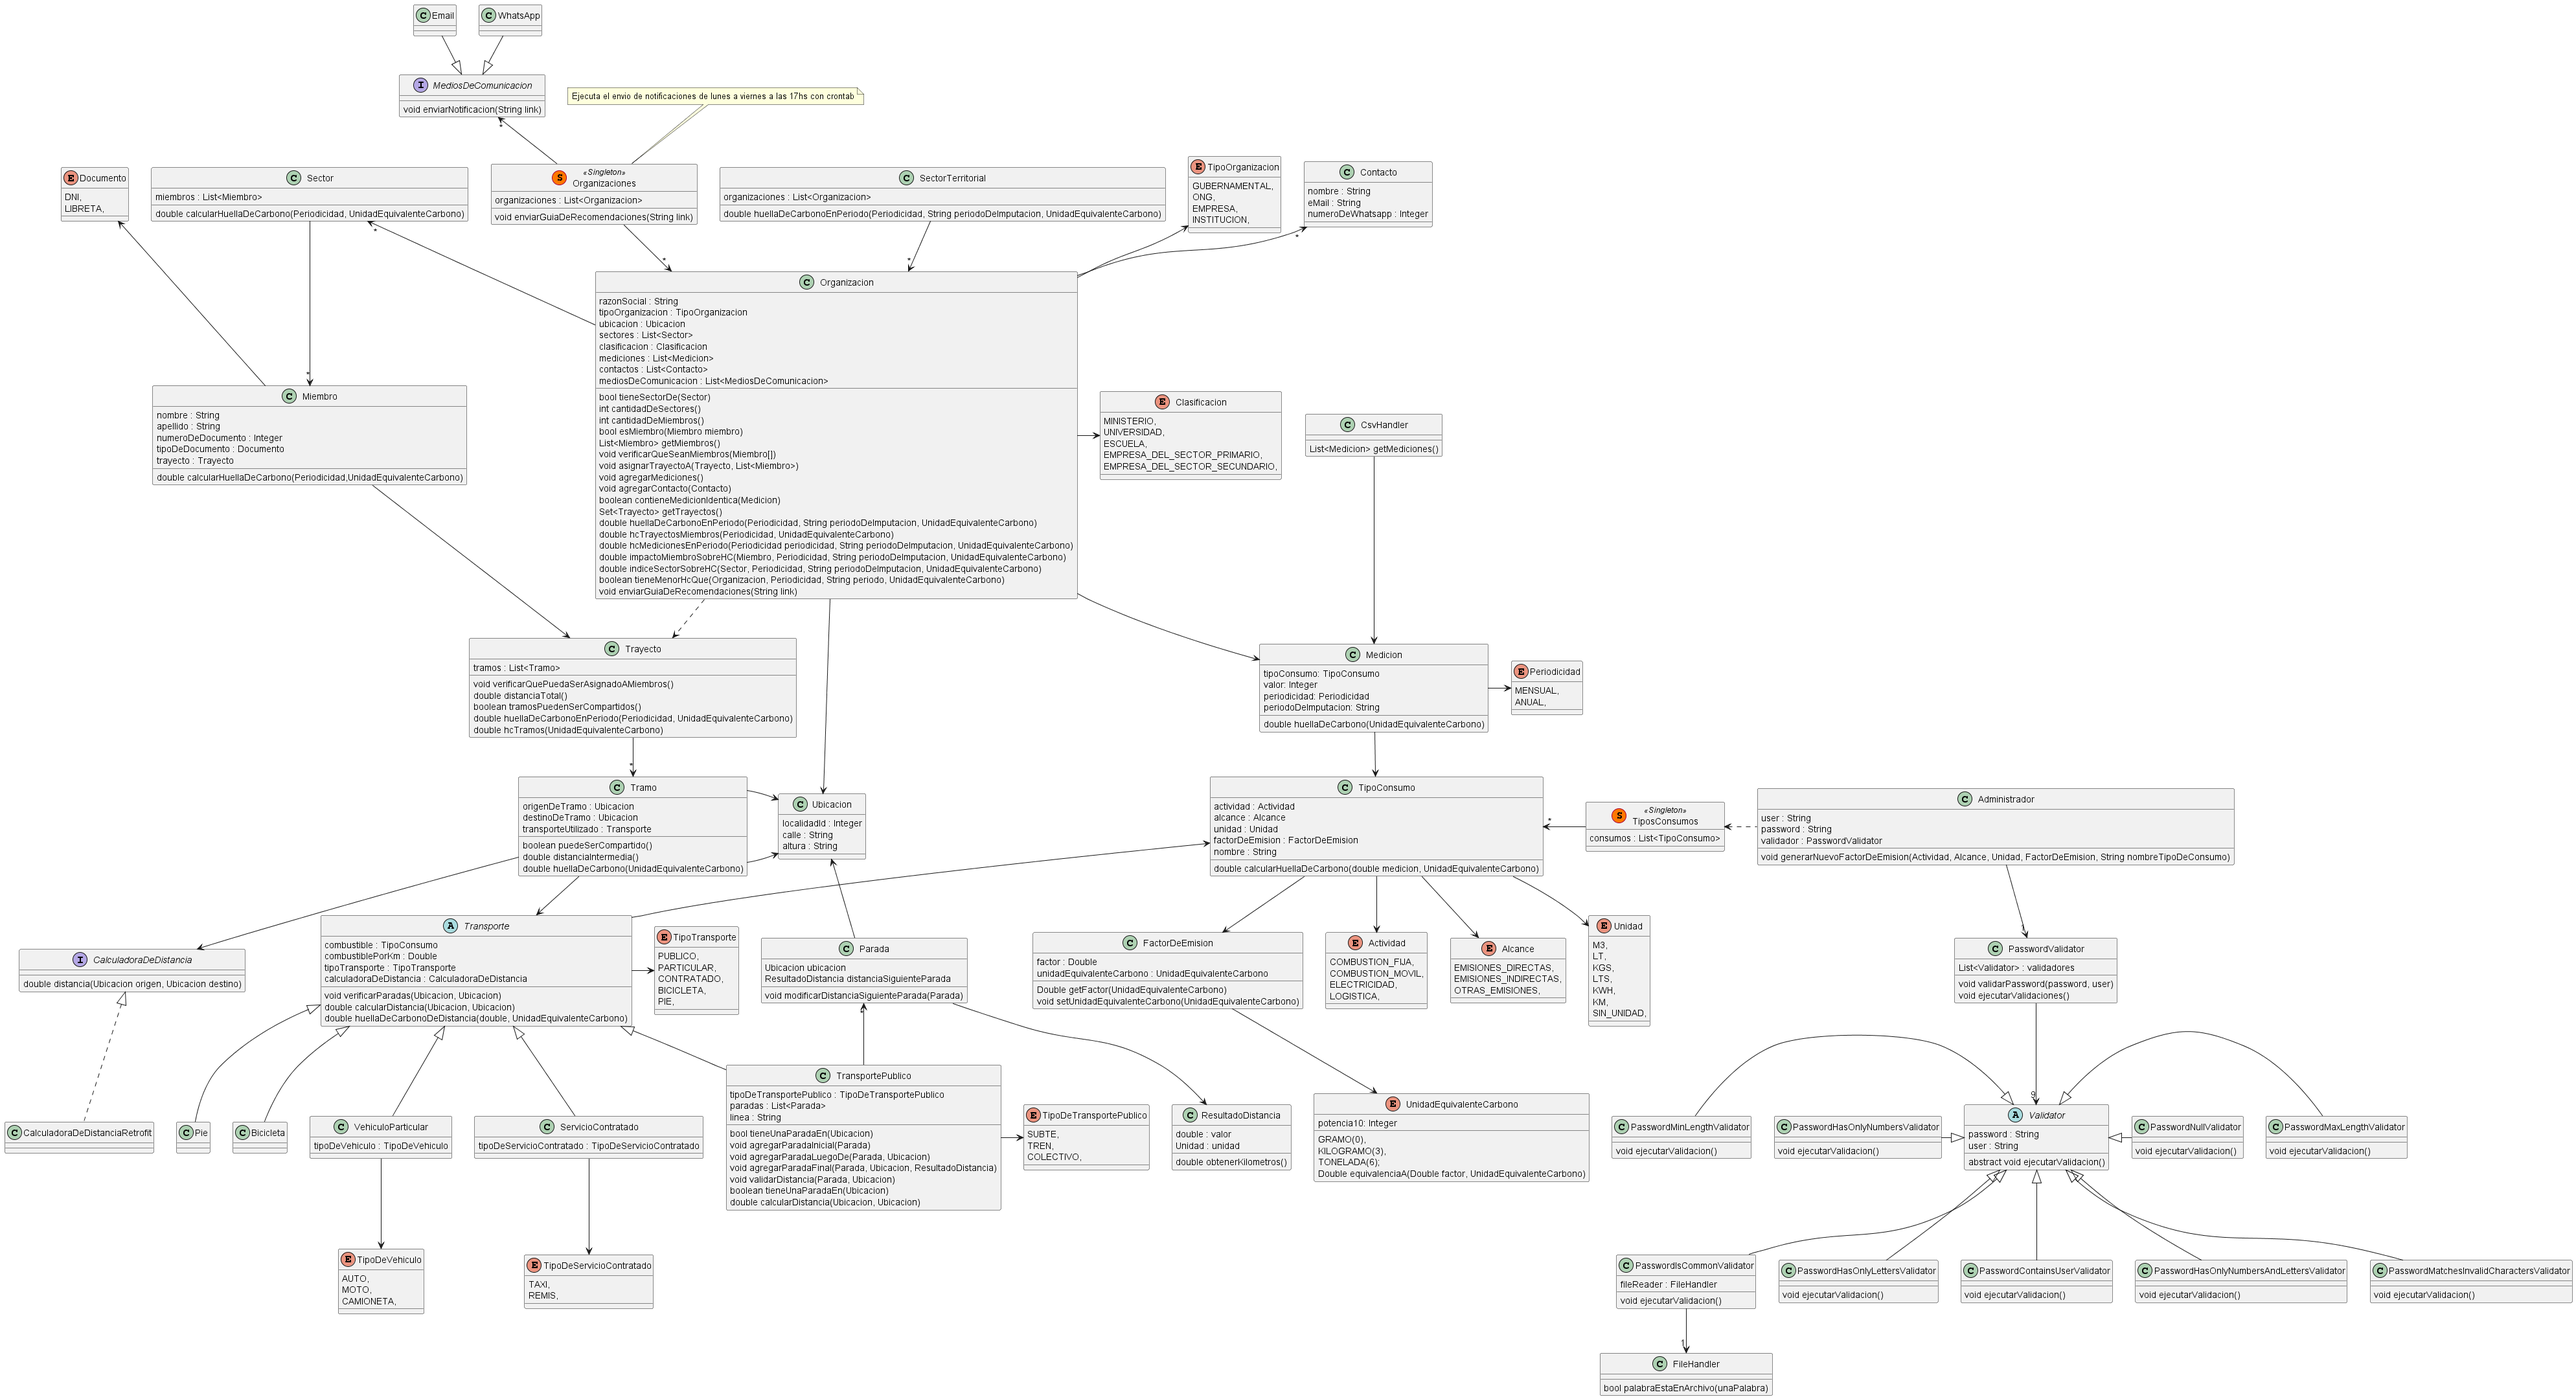
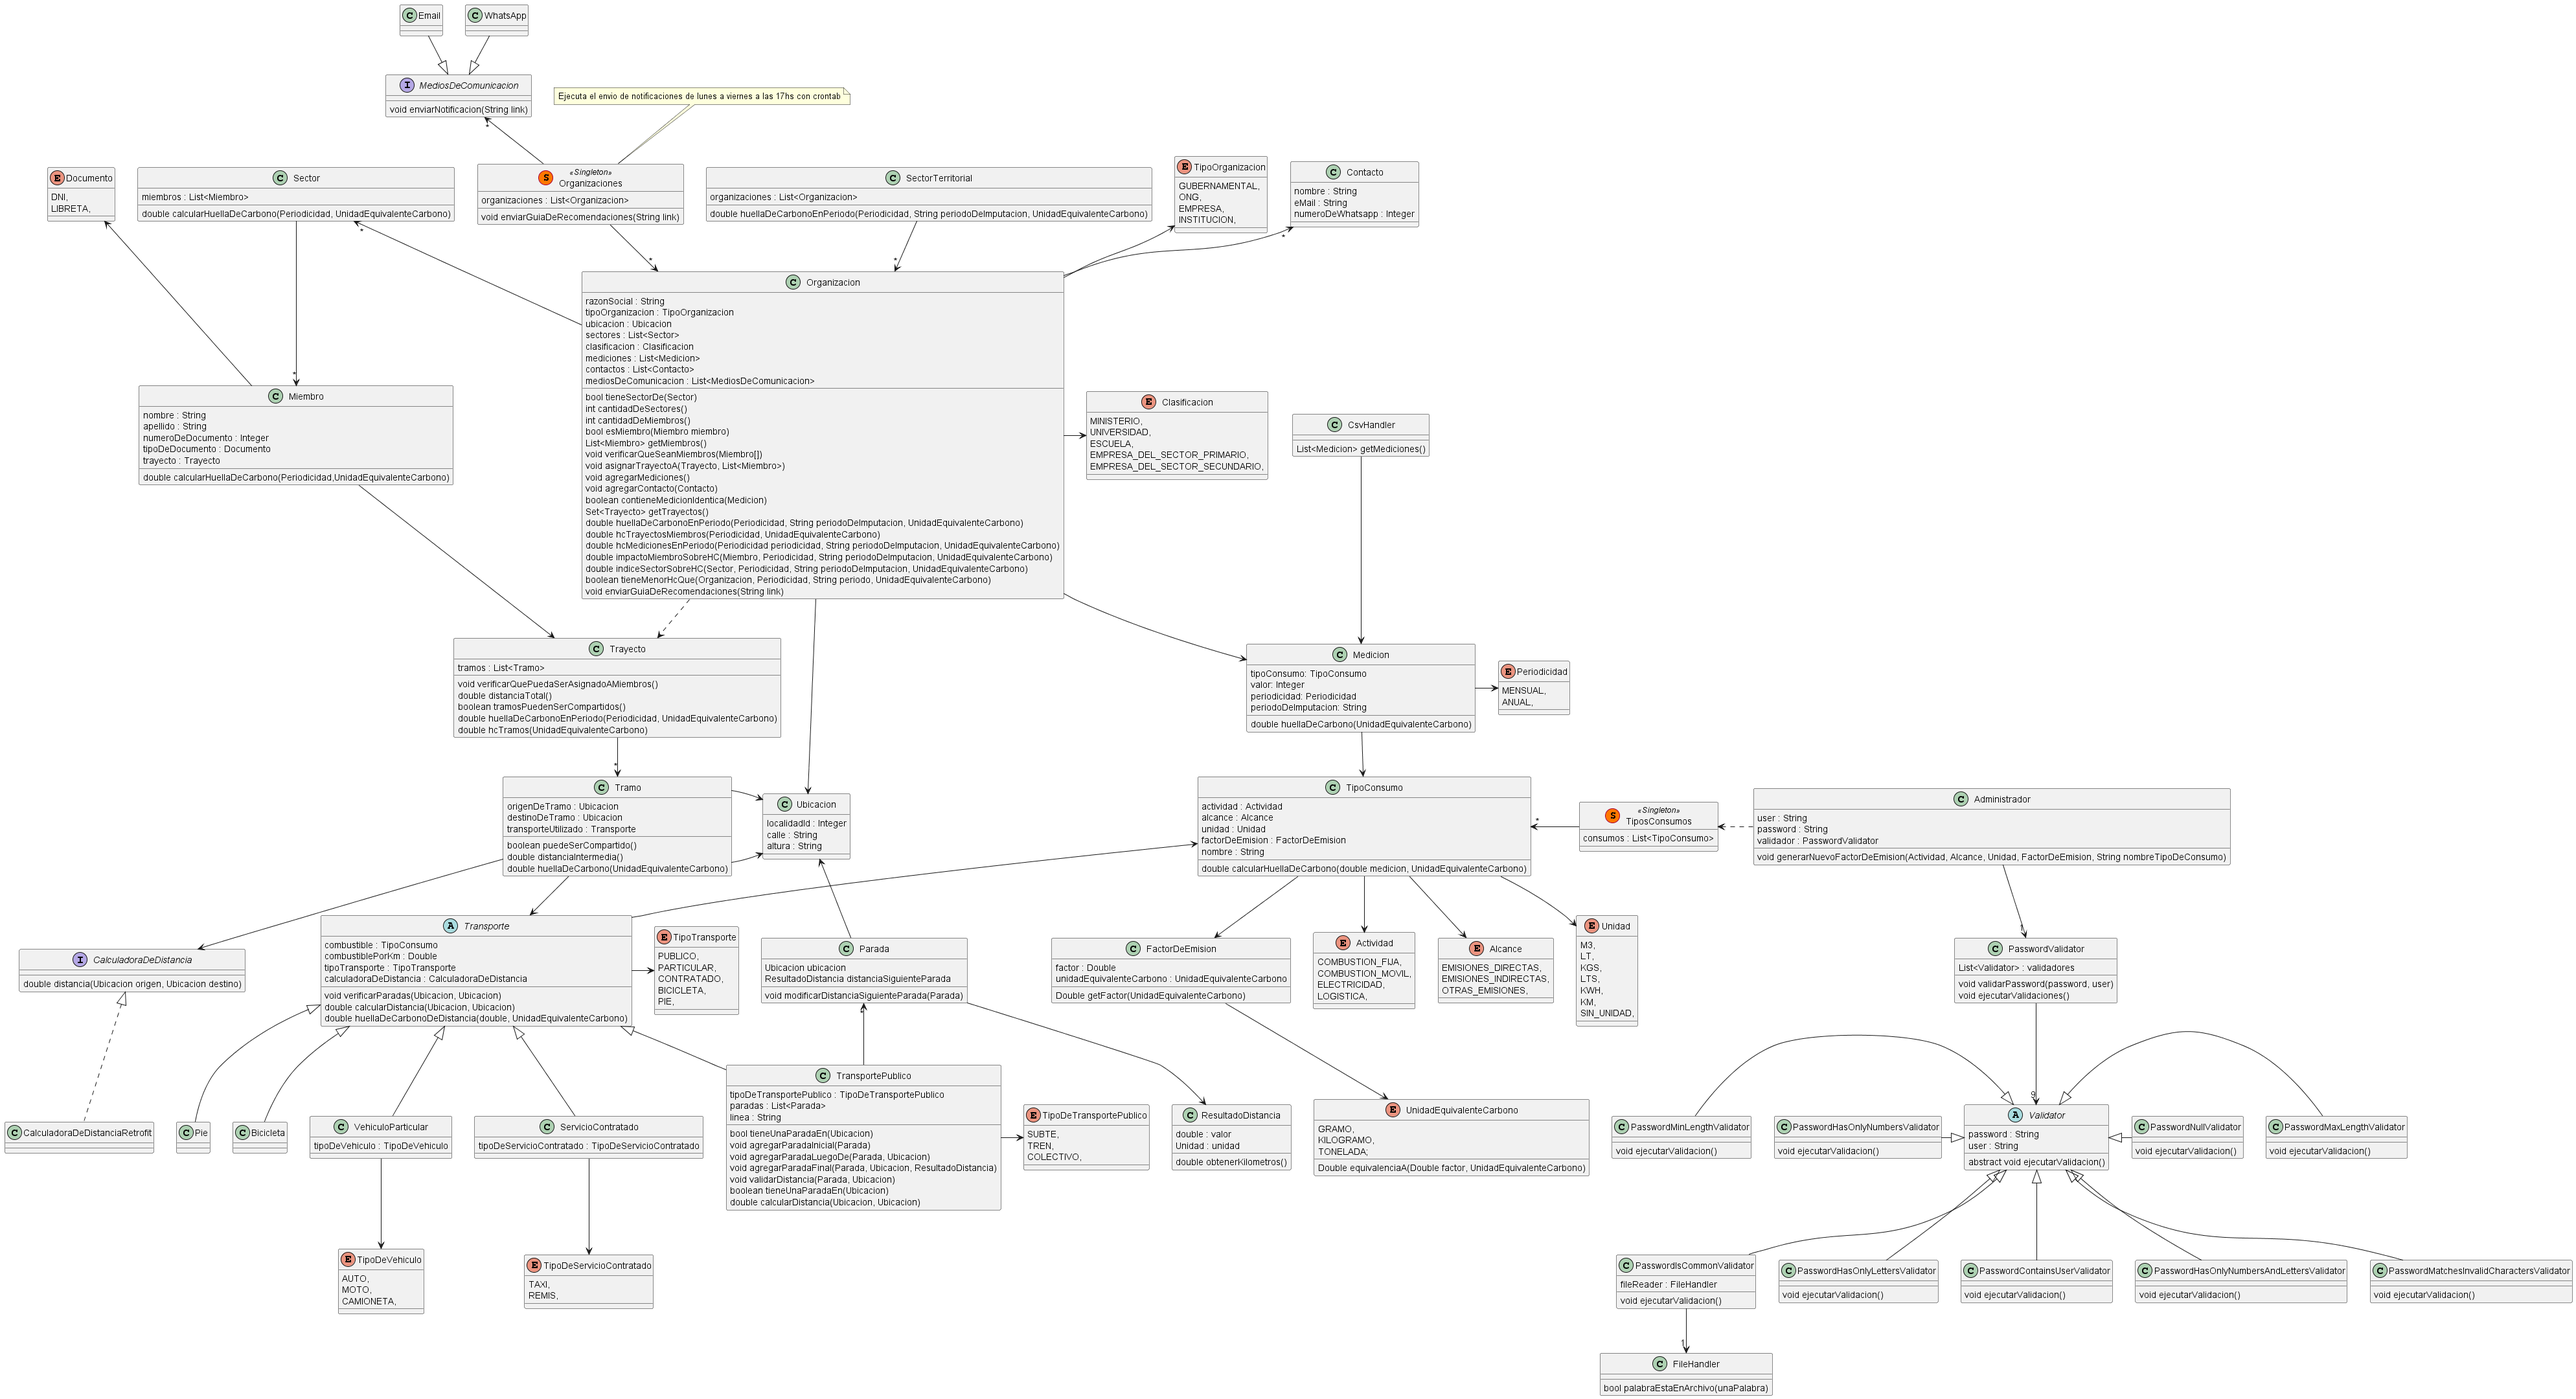
Elimino setUnidadEquivalenteCarbono de FactorDeEmsion y modifico UnidadEquivalenteCarbono en el diagrama

diff --git a/src/main/java/domain/administrador/FactorDeEmision.java b/src/main/java/domain/administrador/FactorDeEmision.java
@@ -17,10 +17,4 @@ public class FactorDeEmision {
   public Double getFactor(UnidadEquivalenteCarbono unidadDestino) {
     return this.unidadEqivalenteCarbono.equivalenciaA(this.factor, unidadDestino);
   }
-
-  public void setUnidadEqivalenteCarbono(UnidadEquivalenteCarbono unidadDestino) {
-    this.factor = this.unidadEqivalenteCarbono.equivalenciaA(this.factor, unidadDestino);
-    this.unidadEqivalenteCarbono = unidadDestino;
-  }
-
 }
